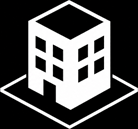
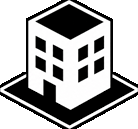
feat: smooth art live (user assets verbatim, alpha-baked occlusion, apartment overlap fixed); pixel set = fallback

diff --git a/index.html b/index.html
@@ -13,33 +13,33 @@ canvas{display:block;image-rendering:pixelated;touch-action:none}
 </head>
 <body>
 <canvas id="cv"></canvas>
-<script src="src/core/state.js?v=34"></script>
-<script src="src/core/util.js?v=34"></script>
-<script src="src/game/balance.js?v=34"></script>
-<script src="src/game/names.js?v=34"></script>
-<script src="src/core/stage.js?v=34"></script>
-<script src="src/core/font.js?v=34"></script>
-<script src="src/core/opts.js?v=34"></script>
-<script src="src/core/display.js?v=34"></script>
-<script src="src/ui/icons.js?v=34"></script>
-<script src="src/assets/stamps.js?v=34"></script>
-<script src="src/world/board.js?v=34"></script>
-<script src="src/world/streets.js?v=34"></script>
-<script src="src/world/tiles.js?v=34"></script>
-<script src="src/survivors/survivors.js?v=34"></script>
-<script src="src/game/actions.js?v=34"></script>
-<script src="src/game/sim.js?v=34"></script>
-<script src="src/game/newgame.js?v=34"></script>
-<script src="src/ui/floats.js?v=34"></script>
-<script src="src/ui/hud.js?v=34"></script>
-<script src="src/ui/topbar.js?v=34"></script>
-<script src="src/ui/panel.js?v=34"></script>
-<script src="src/ui/picker.js?v=34"></script>
-<script src="src/ui/menu.js?v=34"></script>
-<script src="src/core/save.js?v=34"></script>
-<script src="src/core/input.js?v=34"></script>
-<script src="src/core/dev.js?v=34"></script>
-<script src="src/core/loop.js?v=34"></script>
-<script src="src/main.js?v=34"></script>
+<script src="src/core/state.js?v=36"></script>
+<script src="src/core/util.js?v=36"></script>
+<script src="src/game/balance.js?v=36"></script>
+<script src="src/game/names.js?v=36"></script>
+<script src="src/core/stage.js?v=36"></script>
+<script src="src/core/font.js?v=36"></script>
+<script src="src/core/opts.js?v=36"></script>
+<script src="src/core/display.js?v=36"></script>
+<script src="src/ui/icons.js?v=36"></script>
+<script src="src/assets/stamps.js?v=36"></script>
+<script src="src/world/board.js?v=36"></script>
+<script src="src/world/streets.js?v=36"></script>
+<script src="src/world/tiles.js?v=36"></script>
+<script src="src/survivors/survivors.js?v=36"></script>
+<script src="src/game/actions.js?v=36"></script>
+<script src="src/game/sim.js?v=36"></script>
+<script src="src/game/newgame.js?v=36"></script>
+<script src="src/ui/floats.js?v=36"></script>
+<script src="src/ui/hud.js?v=36"></script>
+<script src="src/ui/topbar.js?v=36"></script>
+<script src="src/ui/panel.js?v=36"></script>
+<script src="src/ui/picker.js?v=36"></script>
+<script src="src/ui/menu.js?v=36"></script>
+<script src="src/core/save.js?v=36"></script>
+<script src="src/core/input.js?v=36"></script>
+<script src="src/core/dev.js?v=36"></script>
+<script src="src/core/loop.js?v=36"></script>
+<script src="src/main.js?v=36"></script>
 </body>
 </html>

diff --git a/src/assets/stamps.js b/src/assets/stamps.js
@@ -1,6 +1,6 @@
-const T_HOUSE=new Image();T_HOUSE.src="asset/tiles/ref_house75.png?v=3";
-const T_APT=new Image();T_APT.src="asset/tiles/ref_apt77.png?v=2";
-const T_TILE=new Image();T_TILE.src="asset/tiles/ref_tile77.png?v=1";
+const T_HOUSE=new Image();T_HOUSE.src="asset/tiles/smooth_house.png?v=2";
+const T_APT=new Image();T_APT.src="asset/tiles/smooth_apt.png?v=2";
+const T_TILE=new Image();T_TILE.src="asset/tiles/smooth_tile.png?v=2";
 function diaDashFallback(x,y,col){
 const d=DXY();
 for(let i=0;i<=28;i++){
@@ -14,16 +14,16 @@ px(x-xx-1,y+d.hh-yy-1,1,1,col);
 }
 function stampTile(x,y){
 const l=L();
-if(T_TILE.width){cx.globalCompositeOperation="lighter";blitS(T_TILE,x-35*l.sc,y-53*l.sc,77*l.sc,78*l.sc);cx.globalCompositeOperation="source-over";}
+if(T_TILE.width)blitS(T_TILE,x-36.5*l.sc,y-16.5*l.sc,73*l.sc,39*l.sc);
 else diaDashFallback(x,y,FG);
 }
 function stampHouse(x,y){
 const l=L();
-if(T_HOUSE.width){cx.globalCompositeOperation="lighter";blitS(T_HOUSE,x-34*l.sc,y-35*l.sc,69*l.sc,57*l.sc);cx.globalCompositeOperation="source-over";return true;}
+if(T_HOUSE.width){blitS(T_HOUSE,x-34.25*l.sc,y-36.5*l.sc,69*l.sc,58*l.sc);return true;}
 return false;
 }
 function stampApt(x,y){
 const l=L();
-if(T_APT.width){cx.globalCompositeOperation="lighter";blitS(T_APT,x-34*l.sc,y-42*l.sc,69*l.sc,64*l.sc);cx.globalCompositeOperation="source-over";return true;}
+if(T_APT.width){blitS(T_APT,x-34.25*l.sc,y-43*l.sc,69*l.sc,64.5*l.sc);return true;}
 return false;
 }

diff --git a/DESIGN.md b/DESIGN.md
@@ -153,6 +153,17 @@ violations, volunteers improvements)
 - Unknown "?" = 0.45-alpha tile stamp + 5x7 "?". Icon-less kinds =
   5x7 labels (FOOD SCRAP RUBBLE CAMP CACHE; SCRAPYARD/CAMP/CACHE =
   placeholder names, user names later).
+- SMOOTH ART LIVE (user 07-12, "the smooth version works,
+  implement"): the game renders the SMOOTH set: smooth_house +
+  smooth_apt extracted VERBATIM from the user's smooth.png (sources
+  in ref/), smooth_tile drawn to match (thin straight diamond, line
+  weight from their art). Alpha baked offline: outside = transparent
+  (gap-sealed flood), building bodies + grounds = opaque; tiles =
+  lines only. Stamps draw SOURCE-OVER (additive dead for smooth);
+  painter order (gx+gy) gives true occlusion: front buildings cover
+  lines behind (user's apartment-overlap fix). PIXEL set retained in
+  asset/tiles (ref_house75/150 from user's house.png = default
+  pixel house) as the fallback art mode.
 - HOVER = LIFT, final (3px ease). Selection = NO map marker (white
   outline rejected 07-11); panel is the selection feedback.
 - SURVIVOR COLORS (user 07-11): each survivor gets a color, shown on